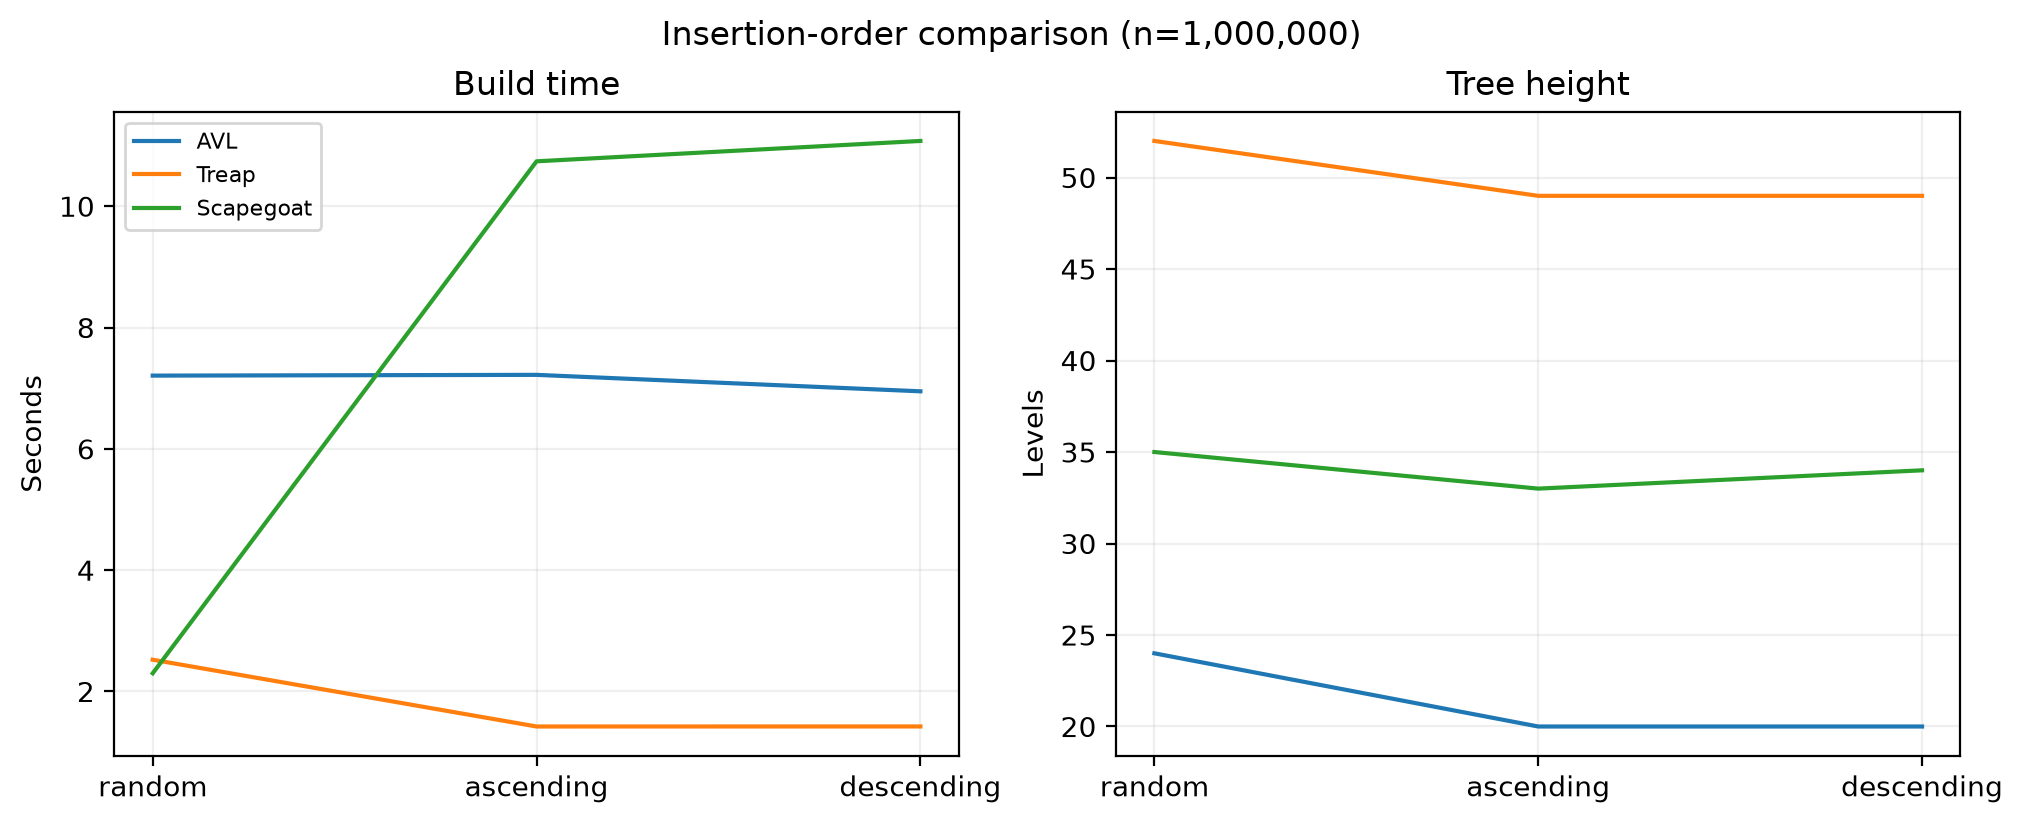
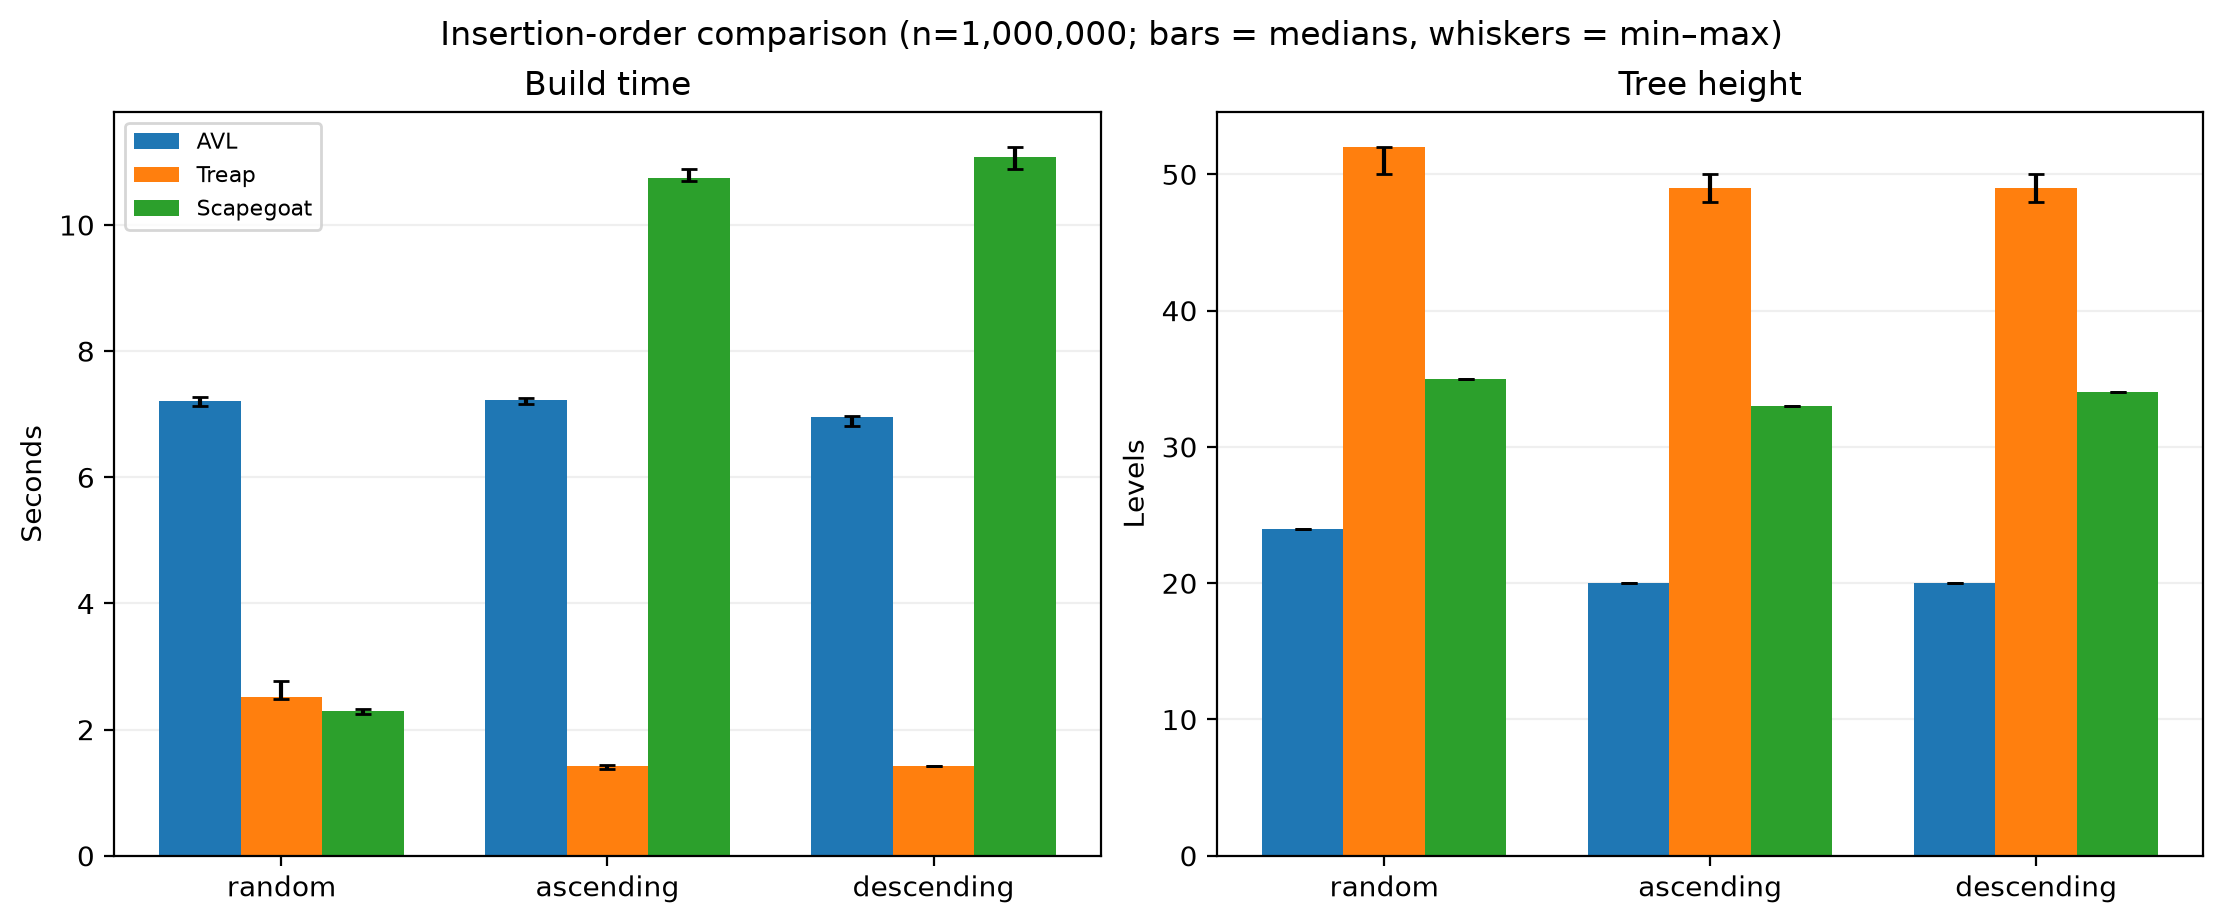
updated benchmark

diff --git a/experiments/benchmark.py b/experiments/benchmark.py
@@ -1,30 +1,31 @@
-"""Compare AVL, Treap, and Scapegoat on time, height, and search depth.
+"""Benchmark AVL, Treap, and Scapegoat trees.
 
-Run from project root:
-    python -m experiments.benchmark --sizes 10000 100000 --order random --repeats 3
-    python -m experiments.benchmark --sizes 10000 --order random --shrink
-AI-assisted draft: review and disclose its use in the assignment.
+Run from the project root, for example:
+    python -m experiments.benchmark --sizes 10000 100000 --order random --repeats 3 --shrink --tag pilot
+AI-assisted revision: review and disclose its use in the assignment report.
 """
 
 import argparse
 import csv
 import gc
-import random
 from pathlib import Path
+import random
 from time import perf_counter
 
 from structures import TREE_TYPES, make_tree
 from structures.base import NULL
 from .dataset import ORDERS, make, load
 
-FIELDS = ("tree", "order", "n", "seed", "repeat", "queries", "updates",
-          "build_s", "search_us", "insert_us", "delete_us", "height",
-          "mem_mib", "avg_depth", "height_60", "shrink_us")
+FIELDS = (
+    "tree", "order", "n", "seed", "repeat", "queries_per_type", "updates",
+    "build_s", "search_hit_us", "search_miss_us", "insert_us", "delete_us",
+    "height", "mem_mib", "avg_depth", "shrink_deleted", "height_60", "shrink_us",
+)
 
 
 def timed(fn, keys):
-    """Return batch execution time in seconds, excluding GC pauses."""
-    enabled = gc.isenabled()
+    """Return the time in seconds to apply fn to every key."""
+    was_enabled = gc.isenabled()
     gc.disable()
     try:
         start = perf_counter()
@@ -32,30 +33,31 @@ def timed(fn, keys):
             fn(key)
         return perf_counter() - start
     finally:
-        if enabled:
+        if was_enabled:
             gc.enable()
 
 
 def depth(tree, keys):
-    """Return mean nodes visited when searching for existing keys."""
+    """Return the average search depth for keys known to exist."""
     total = 0
     for key in keys:
         node = tree.root
         while node != NULL:
             total += 1
-            if key == tree.keys[node]:
+            if tree.keys[node] == key:
                 break
             node = tree.left[node] if key < tree.keys[node] else tree.right[node]
-        else:
-            raise AssertionError(f"Missing sampled key: {key}")
     return total / len(keys)
 
 
 def bench(n, order, seed, queries, updates, rep, shrink):
-    """Produce one benchmark row for each tree using identical operations."""
+    """Measure each tree using the same keys and operations."""
     keys = load(n, order, seed)
-    rng = random.Random(seed + 1000 + rep)
-    lookups = [2 * rng.randrange(n) + (i % 2) for i in range(queries)]
+    rng = random.Random(seed + rep)
+
+    # Original keys are even; odd numbers are absent until insertion.
+    hits = [2 * rng.randrange(n) for _ in range(queries)]
+    misses = [2 * rng.randrange(n) + 1 for _ in range(queries)]
     count = min(updates, n)
     added = [2 * i + 1 for i in rng.sample(range(n), count)]
     removed = added.copy()
@@ -65,37 +67,50 @@ def bench(n, order, seed, queries, updates, rep, shrink):
     for name in TREE_TYPES:
         gc.collect()
         tree = make_tree(name, seed=seed + rep)
+
         build = timed(tree.insert, keys)
-        if len(tree) != n:
-            raise AssertionError(f"{name}: build size mismatch")
+        assert len(tree) == n
         height = tree.height()
         avg_depth = depth(tree, probes)
         memory = tree.storage_bytes() / (1024 * 1024)
-        search = timed(tree.search, lookups)
+
+        hit_s = timed(tree.search, hits)
+        miss_s = timed(tree.search, misses)
         insert = timed(tree.insert, added)
         delete = timed(tree.delete, removed)
-        if len(tree) != n:
-            raise AssertionError(f"{name}: updates changed final size")
+        assert len(tree) == n
 
-        height_60, shrink_us = "", ""
+        cut, height_60, shrink_us = 0, "", ""
         if shrink:
             cut = n * 60 // 100
             if cut:
-                seconds = timed(tree.delete, range(0, 2 * cut, 2))
-                if len(tree) != n - cut:
-                    raise AssertionError(f"{name}: shrink size mismatch")
+                # Spread selected keys across the whole original key range.
+                # This generator avoids creating another large list.
+                bulk_keys = (2 * (i * n // cut) for i in range(cut))
+                seconds = timed(tree.delete, bulk_keys)
+                assert len(tree) == n - cut
                 height_60 = tree.height()
                 shrink_us = round(seconds * 1e6 / cut, 4)
 
-        yield {"tree": name, "order": order, "n": n, "seed": seed,
-               "repeat": rep, "queries": queries, "updates": count,
-               "build_s": round(build, 6),
-               "search_us": round(search * 1e6 / queries, 4),
-               "insert_us": round(insert * 1e6 / count, 4),
-               "delete_us": round(delete * 1e6 / count, 4),
-               "height": height, "avg_depth": round(avg_depth, 3),
-               "mem_mib": round(memory, 3),
-               "height_60": height_60, "shrink_us": shrink_us}
+        yield {
+            "tree": name, "order": order, "n": n, "seed": seed,
+            "repeat": rep, "queries_per_type": queries, "updates": count,
+            "build_s": round(build, 6),
+            "search_hit_us": round(hit_s * 1e6 / queries, 4),
+            "search_miss_us": round(miss_s * 1e6 / queries, 4),
+            "insert_us": round(insert * 1e6 / count, 4),
+            "delete_us": round(delete * 1e6 / count, 4),
+            "height": height, "avg_depth": round(avg_depth, 3),
+            "mem_mib": round(memory, 3),
+            "shrink_deleted": cut, "height_60": height_60,
+            "shrink_us": shrink_us,
+        }
+
+
+def result_path(order, tag=""):
+    """Return the output CSV path, optionally labeled by experiment."""
+    suffix = f"_{tag}" if tag else ""
+    return Path("results") / f"bench_{order}{suffix}.csv"
 
 
 def main():
@@ -106,25 +121,29 @@ def main():
     parser.add_argument("--queries", type=int, default=3000)
     parser.add_argument("--updates", type=int, default=1000)
     parser.add_argument("--repeats", type=int, default=3)
-    parser.add_argument("--shrink", action="store_true", help="Also delete 60%% of original keys")
+    parser.add_argument("--shrink", action="store_true")
+    parser.add_argument("--tag", default="")
     args = parser.parse_args()
+
+    # These quantities are used as divisors in per-operation timings.
     if any(n < 1 for n in args.sizes) or min(args.queries, args.updates, args.repeats) < 1:
         parser.error("sizes, queries, updates and repeats must be positive")
 
-    Path("results").mkdir(exist_ok=True)
-    dest = Path("results") / f"bench_{args.order}.csv"
+    dest = result_path(args.order, args.tag)
+    dest.parent.mkdir(parents=True, exist_ok=True)
     with dest.open("w", newline="") as f:
         writer = csv.DictWriter(f, fieldnames=FIELDS)
         writer.writeheader()
         for n in args.sizes:
             make(n, args.order, args.seed)
-            print(f"Benchmark n={n:,}, order={args.order}", flush=True)
             for rep in range(args.repeats):
                 for row in bench(n, args.order, args.seed, args.queries,
                                  args.updates, rep, args.shrink):
                     writer.writerow(row)
-                    print(f"  {row['tree']}: {row['build_s']:.4f}s, "
-                          f"height={row['height']}, depth={row['avg_depth']:.2f}")
+                    print(f"n={n:,}, repeat={rep + 1}, {row['tree']}: "
+                          f"build={row['build_s']:.3f}s, height={row['height']}",
+                          flush=True)
+                f.flush()
     print(f"Saved {dest}")
 
 

diff --git a/experiments/plot.py b/experiments/plot.py
@@ -1,4 +1,4 @@
-"""Plot two combined figures from the existing tree benchmark CSV files.
+"""Plot two combined figures from benchmark CSVs.
 
 Run from project root: python -m experiments.plot --order all
 AI-assisted draft: review and disclose its use in the assignment.
@@ -32,29 +32,30 @@ def load(order):
         return list(csv.DictReader(file))
 
 
-def mid(rows, tree, n, metric):
-    values = [float(r[metric]) for r in rows
-              if r["tree"] == tree and int(r["n"]) == n and r.get(metric)]
-    return median(values) if values else None
+def vals(rows, tree, n, metric):
+    """Return all repetitions for one tree, size, and metric."""
+    return [float(r[metric]) for r in rows
+            if r["tree"] == tree and int(r["n"]) == n and r.get(metric)]
 
 
 def save(fig, name):
     folder = RESULTS / "figures"
     folder.mkdir(parents=True, exist_ok=True)
-    fig.savefig(folder / f"{name}.png", dpi=200, bbox_inches="tight")
+    dest = folder / f"{name}.png"
+    fig.savefig(dest, dpi=200, bbox_inches="tight")
     plt.close(fig)
-    print(f"Saved {folder / (name + '.png')}")
+    print(f"Saved {dest}")
 
 
 def plot(order):
-    """Six metrics merged into one comparison figure."""
+    """Plot six performance and structure metrics in one figure."""
     rows = load(order)
     sizes = sorted({int(r["n"]) for r in rows})
     fig, axes = plt.subplots(2, 3, figsize=(12, 7), constrained_layout=True)
     for ax, (metric, title, ylabel) in zip(axes.flat, METRICS):
         for tree in TREES:
-            points = [(n, mid(rows, tree, n, metric)) for n in sizes]
-            points = [(n, y) for n, y in points if y is not None]
+            points = [(n, median(v)) for n in sizes
+                      if (v := vals(rows, tree, n, metric))]
             if points:
                 x, y = zip(*points)
                 ax.plot(x, y, label=("AVL" if tree == "avl" else tree.title()))
@@ -68,27 +69,54 @@ def plot(order):
 
 
 def orders():
-    """Compare insertion orders at their largest common dataset size."""
-    if not all((RESULTS / f"bench_{o}.csv").exists() for o in ORDERS):
+    """Grouped bars with min–max ranges across benchmark repetitions."""
+    missing = [o for o in ORDERS if not (RESULTS / f"bench_{o}.csv").exists()]
+    if missing:
+        print(f"Skipping order comparison; missing CSVs for: {', '.join(missing)}")
         return
-    data = {o: load(o) for o in ORDERS}
+    data = {order: load(order) for order in ORDERS}
     common = set.intersection(*({int(r["n"]) for r in rows} for rows in data.values()))
     if not common:
+        print("Skipping order comparison; no dataset size appears in every CSV")
         return
     n = max(common)
-    fig, axes = plt.subplots(1, 2, figsize=(10, 4), constrained_layout=True)
-    for ax, metric, title, ylabel in zip(axes, ("build_s", "height"),
-                                         ("Build time", "Tree height"),
-                                         ("Seconds", "Levels")):
-        for tree in TREES:
-            values = [mid(data[o], tree, n, metric) for o in ORDERS]
-            if all(v is not None for v in values):
-                ax.plot(ORDERS, values, label=("AVL" if tree == "avl" else tree.title()))
+    fig, axes = plt.subplots(1, 2, figsize=(11, 4.5), constrained_layout=True)
+    width = 0.25
+
+    for ax, metric, title, ylabel in zip(
+            axes, ("build_s", "height"), ("Build time", "Tree height"),
+            ("Seconds", "Levels")):
+        for i, tree in enumerate(TREES):
+            xs, mids, low, high = [], [], [], []
+            for j, order in enumerate(ORDERS):
+                samples = vals(data[order], tree, n, metric)
+                if not samples:
+                    continue
+                m = median(samples)
+                xs.append(j + (i - 1) * width)
+                mids.append(m)
+                low.append(m - min(samples))
+                high.append(max(samples) - m)
+            if xs:
+                ax.bar(xs, mids, width=width,
+                       yerr=[low, high], capsize=3,
+                       label=("AVL" if tree == "avl" else tree.title()))
+        ax.set_xticks(range(len(ORDERS)), ORDERS)
         ax.set(title=title, ylabel=ylabel)
-        ax.grid(alpha=0.2)
+        ax.grid(axis="y", alpha=0.2)
+        ax.set_axisbelow(True)
     axes[0].legend(fontsize=8)
-    fig.suptitle(f"Insertion-order comparison (n={n:,})")
+    fig.suptitle(f"Insertion-order comparison (n={n:,}; bars = medians, whiskers = min–max)")
     save(fig, "insertion_order")
+
+    print(f"\nBuild-time variation at n={n:,} (seconds):")
+    print(f"{'Order':<12} {'Tree':<12} {'Reps':>4} {'Min':>8} {'Median':>8} {'Max':>8}")
+    for order in ORDERS:
+        for tree in TREES:
+            samples = vals(data[order], tree, n, "build_s")
+            if samples:
+                print(f"{order:<12} {tree:<12} {len(samples):>4} "
+                      f"{min(samples):>8.3f} {median(samples):>8.3f} {max(samples):>8.3f}")
 
 
 def main():
